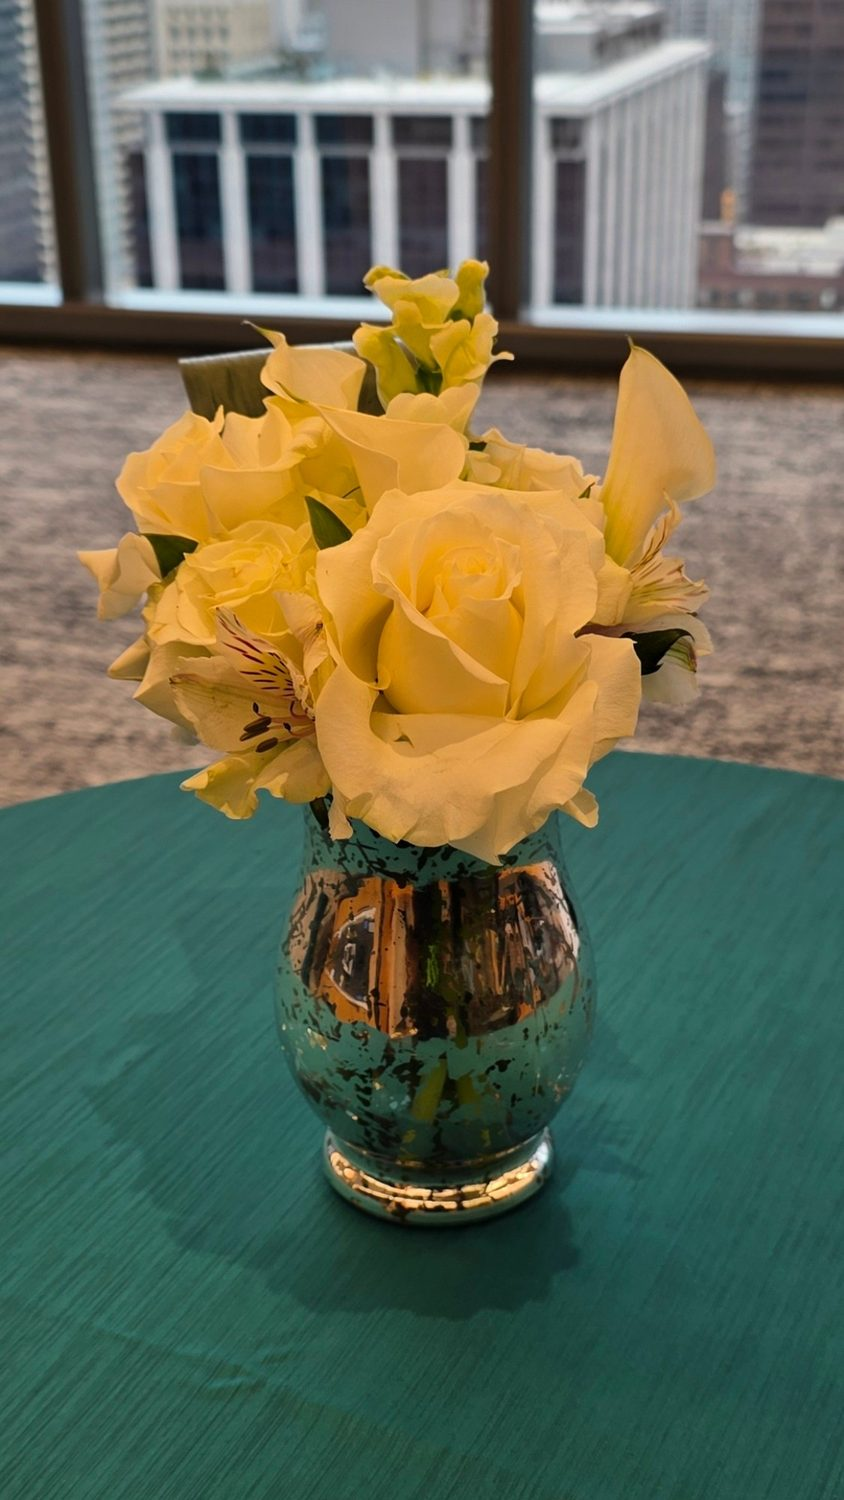
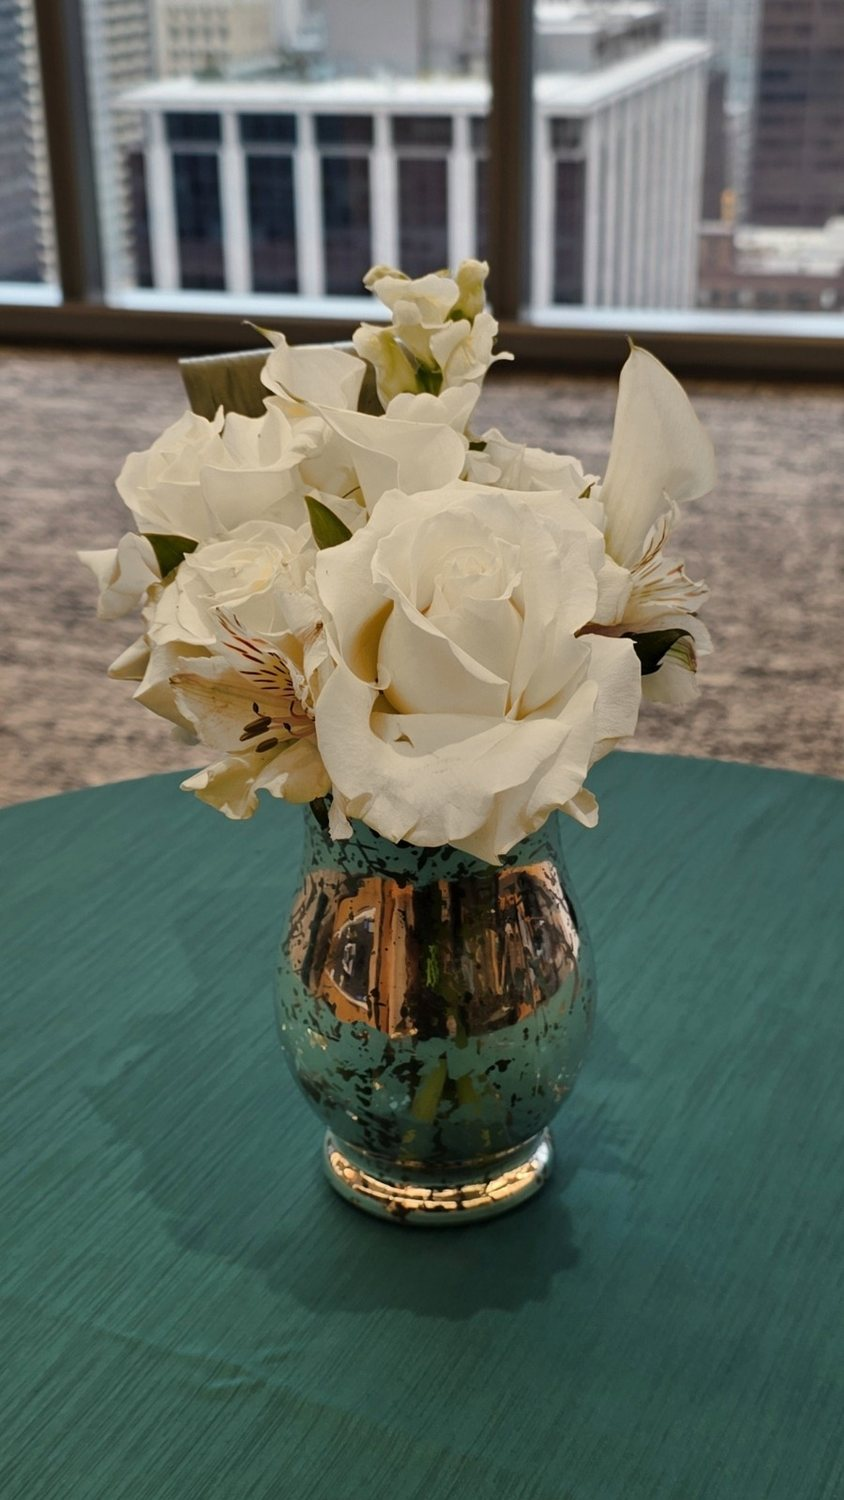
Story: swap in clearer photos, blur client name on coasters
Claude-Session: https://claude.ai/code/session_0148UVwEsfQdimvfYoVAenie

Changed region(s): [[0.0924, 0.1533, 0.8626, 0.5827]]

diff --git a/corporate-welcome-event-florals.html b/corporate-welcome-event-florals.html
@@ -571,11 +571,11 @@ footer {
   grid-column: 1 / -1;
   grid-row: 5;
   display: grid;
-  grid-template-columns: 1fr 1fr;
+  grid-template-columns: repeat(3, 1fr);
   gap: 16px;
   padding: 72px 80px 0;
 }
-.story-gallery img { width: 100%; height: auto; display: block; }
+.story-gallery img { width: 100%; height: auto; aspect-ratio: 4 / 5; object-fit: cover; display: block; }
 @media (max-width: 768px) {
   .story-gallery { grid-row: 5; grid-template-columns: 1fr; padding: 48px 24px 0; }
 }
@@ -657,14 +657,16 @@ footer {
 
   <div class="story-inset">
     <img src="images/corporate-welcome-cream-rose-mercury-vase.jpg" width="844" height="1500" loading="lazy" decoding="async"
-         alt="Cream roses, calla lily and alstroemeria in a mercury glass vase, a table arrangement for a Chicago corporate welcome event">
+         alt="Cream roses, alstroemeria and calla lily in a mercury glass vase on a table, an arrangement for a Chicago corporate welcome event">
   </div>
 
   <div class="story-gallery">
-    <img src="images/corporate-welcome-white-rose-mercury-bowl.jpg" width="1487" height="1486" loading="lazy" decoding="async"
-         alt="White roses, calla lily and alstroemeria with fern in a mercury glass bowl, a corporate welcome event gift arrangement">
-    <img src="images/corporate-welcome-rose-calla-gift-bowl.jpg" width="1500" height="1417" loading="lazy" decoding="async"
-         alt="Cream roses and calla lilies with looped aspidistra in a mercury glass bowl, a corporate welcome event table arrangement">
+    <img src="images/corporate-welcome-white-rose-vase-teal-table.jpg" width="844" height="1500" loading="lazy" decoding="async"
+         alt="White roses, calla lily and alstroemeria with fern in a mercury glass vase on a table at a Chicago corporate welcome event">
+    <img src="images/corporate-welcome-side-table-rose-bowl.jpg" width="844" height="1500" loading="lazy" decoding="async"
+         alt="Small mercury glass bowl of white roses and calla lily on a side table by a window, corporate welcome event in Chicago">
+    <img src="images/corporate-welcome-white-rose-mercury-bowl.jpg" width="1499" height="1500" loading="lazy" decoding="async"
+         alt="White roses and calla lilies with looped aspidistra in a mercury glass bowl, a corporate welcome event table arrangement">
   </div>
 
 </article>
